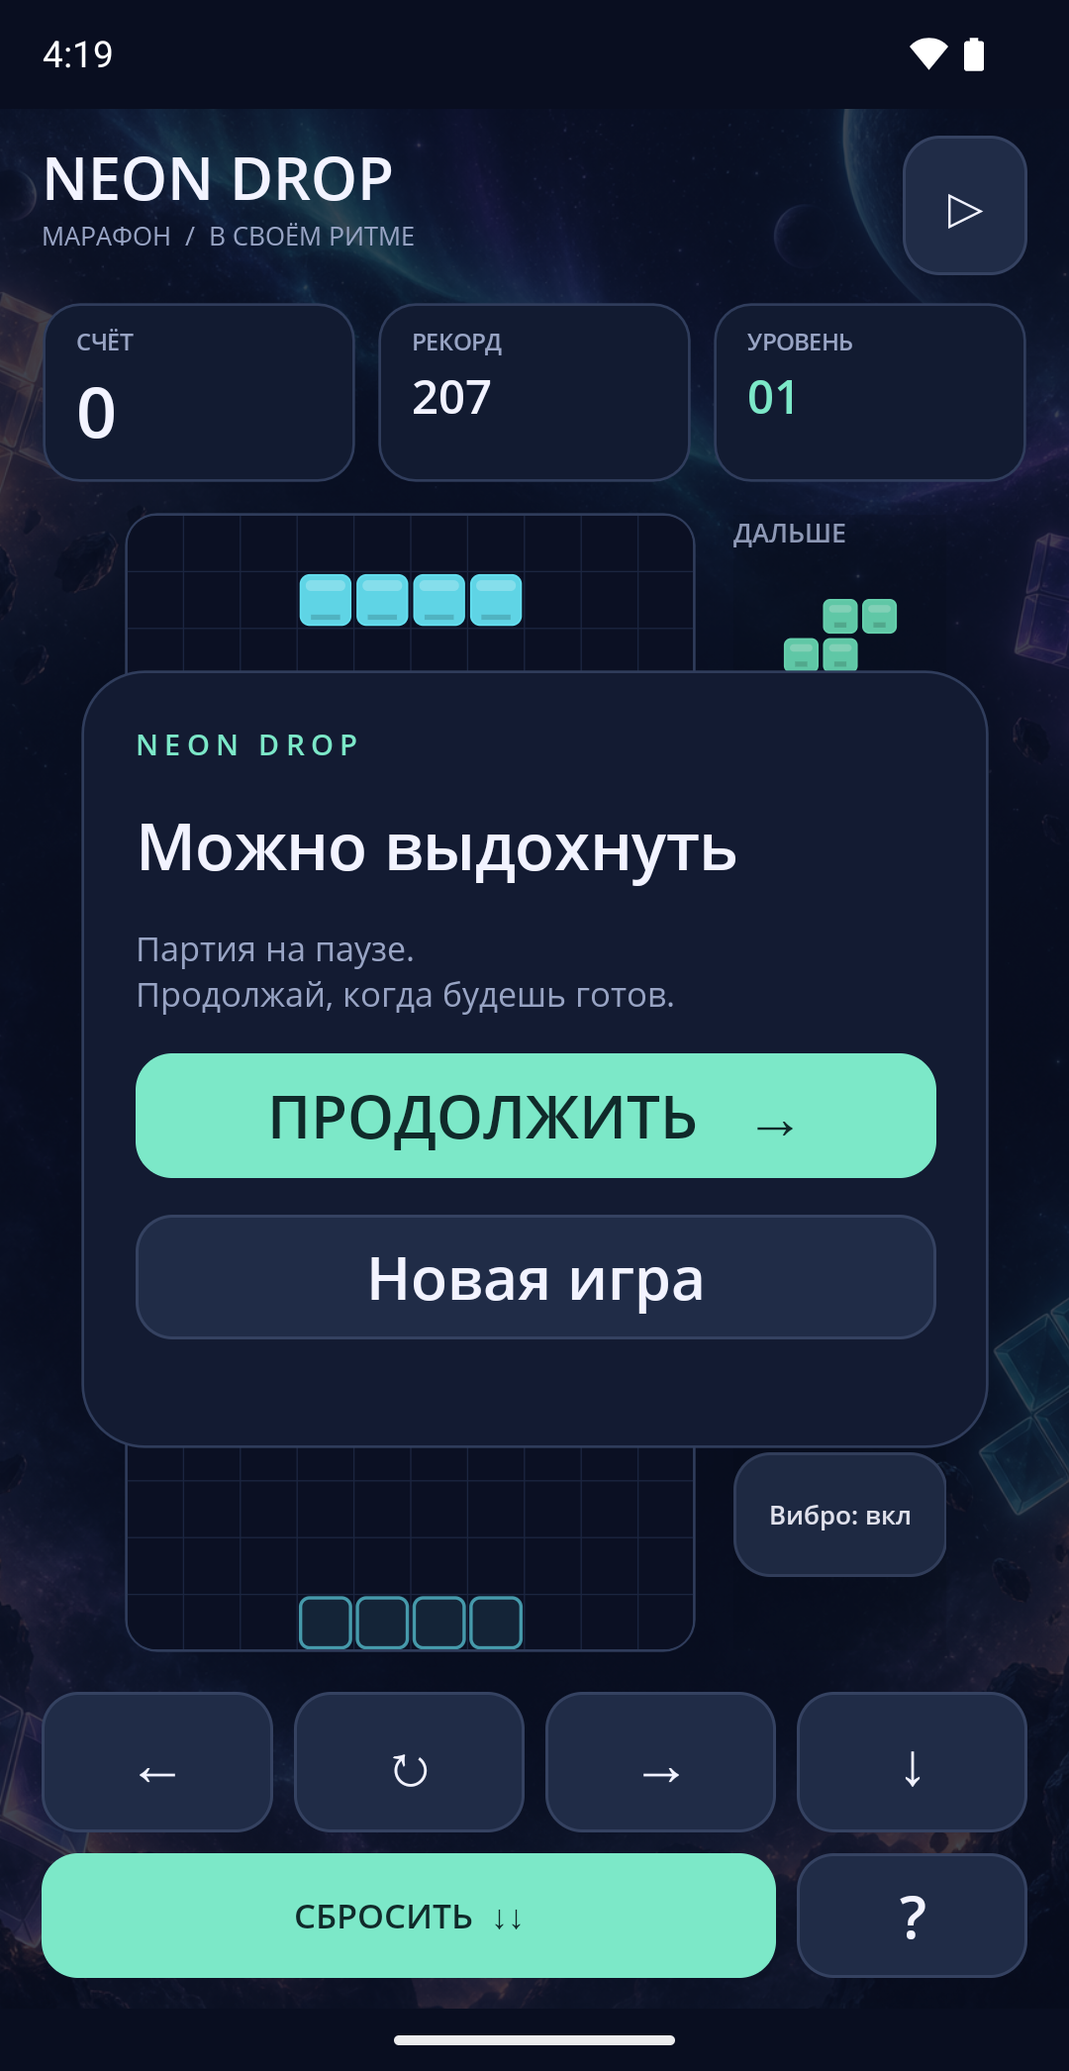
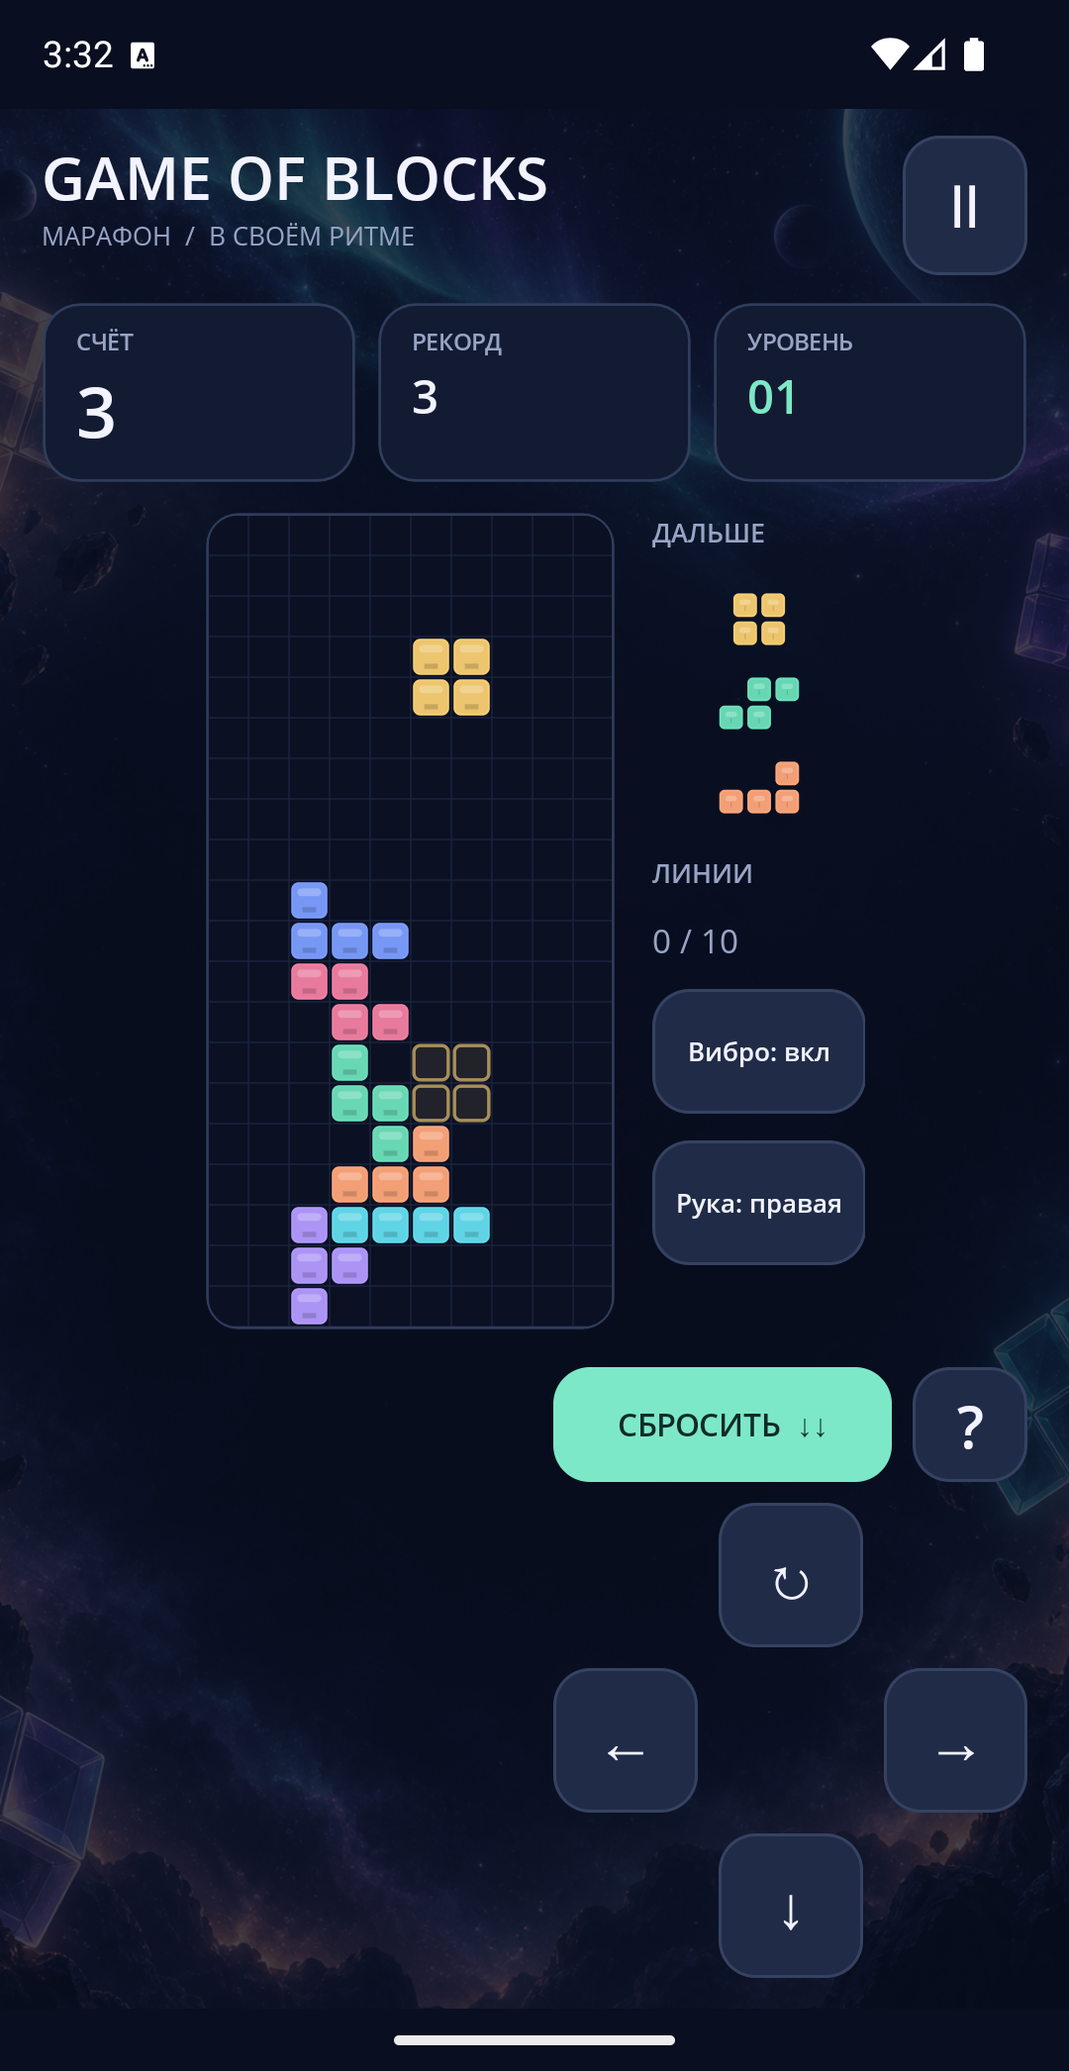
Rename the game to Game of Blocks
Update the in-app title, application title, README and artwork notes.
Keep the title on one line and shrink it in narrow side columns so it
does not overlap the stats on tablets in portrait. Retake every
screenshot, including foldable postures on a hand-made Pixel Fold AVD,
and document the iOS simulator and foldable checks.

Claude-Session: https://claude.ai/code/session_01MpEdapmnt87ou8UZCg6bh6

diff --git a/src/NeonTetris/MainPage.cs b/src/NeonTetris/MainPage.cs
@@ -33,6 +33,7 @@ public sealed class MainPage : ContentPage
     private readonly Label level = Text("01", 18, Mint, true);
     private readonly Label lines = Text("0 / 10", 13, Muted);
     private readonly Label status = Text("МАРАФОН  /  В СВОЁМ РИТМЕ", 10, Muted);
+    private readonly Label title = Text("GAME OF BLOCKS", 23, Ink, true);
     private readonly Button pause;
     private readonly Border overlay;
     private readonly Label overlayTitle = Text("Поймай свой ритм", 25, Ink, true);
@@ -82,9 +83,10 @@ public sealed class MainPage : ContentPage
         next = new GraphicsView { Drawable = new PreviewDrawable(game), HeightRequest = 160 };
         pause = Button("Ⅱ", PauseOrResume, "Пауза или продолжение");
         pause.WidthRequest = 48;
-        var title = new VerticalStackLayout { Spacing = 0, Children = { Text("NEON DROP", 23, Ink, true), status } };
+        title.LineBreakMode = LineBreakMode.NoWrap;
+        var titleBlock = new VerticalStackLayout { Spacing = 0, Children = { title, status } };
         header = new Grid { ColumnDefinitions = [new(GridLength.Star), new(GridLength.Auto)], ColumnSpacing = 8 };
-        header.Add(title);
+        header.Add(titleBlock);
         header.Add(pause, 1);
         stats = new Grid { ColumnDefinitions = [new(GridLength.Star), new(GridLength.Star), new(GridLength.Star)], ColumnSpacing = 8 };
         stats.Add(Stat("СЧЁТ", score));
@@ -114,7 +116,7 @@ public sealed class MainPage : ContentPage
         play = Button("ИГРАТЬ   →", Play, "Начать игру", true);
         restart = Button("Новая игра", () => { game.Start(); helpOpen = false; ArrangeScene(); }, "Начать новую партию");
         var overlayContent = new VerticalStackLayout { Spacing = 14, Padding = 20,
-            Children = { hero, Text("N E O N   D R O P", 11, Mint, true), overlayTitle, overlayText, play, restart } };
+            Children = { hero, Text("G A M E   O F   B L O C K S", 11, Mint, true), overlayTitle, overlayText, play, restart } };
         overlay = Card(new ScrollView { Content = overlayContent }, 24);
         overlay.BackgroundColor = Color.FromArgb("#131B32");
         overlay.ZIndex = 10;
@@ -347,6 +349,8 @@ public sealed class MainPage : ContentPage
             var key = Math.Clamp(Math.Min((h - 160) / 2.6, (Math.Min(leftWidth, rightWidth) - Gap) / 2), 46, 88);
             var leftHeight = key * 2 + Gap;
             var rightHeight = key * 1.5 + Gap + DropHeight(key);
+            // В узкой боковой колонке (планшет в портрете) заголовок не должен переноситься на две строки.
+            title.FontSize = leftWidth < 300 ? 16 : 23;
             Place(header, pad, 10, leftWidth, 54);
             Place(stats, pad, 70, leftWidth, 70);
             var sidebarHeight = Math.Max(1, h - 26 - rightHeight - 10);
@@ -359,6 +363,7 @@ public sealed class MainPage : ContentPage
         }
         else
         {
+            title.FontSize = 23;
             Place(header, pad, 10, w - pad * 2, 54);
             Place(stats, pad, 74, w - pad * 2, 70);
             var key = Math.Clamp(Math.Min(h * .076, (w - pad * 2 - 40) / 3.2), 46, 78);
@@ -387,7 +392,9 @@ public sealed class MainPage : ContentPage
         var width = Math.Max(1, pane.Width - 24);
         // В низкой широкой панели шапка и счёт занимают один ряд, иначе управление не поместится.
         var row = pane.Width > pane.Height * 1.2;
-        Place(header, x, pane.Y + 10, row ? width * .4 : width, 54);
+        var headerWidth = row ? width * .4 : width;
+        title.FontSize = headerWidth < 300 ? 16 : 23;
+        Place(header, x, pane.Y + 10, headerWidth, 54);
         Place(stats, row ? x + width * .42 : x, pane.Y + (row ? 8 : 74), row ? width * .58 : width, row ? 62 : 70);
         var top = pane.Y + (row ? 78 : 154);
         var rest = Math.Max(1, pane.Y + pane.Height - 12 - top);

diff --git a/docs/testing.md b/docs/testing.md
@@ -31,7 +31,7 @@
 
 В коротком горизонтальном окне вспомогательная панель «ДАЛЬШЕ» прокручивается; основные кнопки движения и сброса остаются на месте.
 
-Физические телефоны/планшеты, OEM-внешние экраны, iOS и Windows target не тестировались. Приложение собирается именно для Android. Эмулятор не подтверждает особенности прошивок всех моделей из обзора.
+Физические телефоны/планшеты и OEM-внешние экраны не тестировались; Windows target отсутствует. Эмулятор не подтверждает особенности прошивок всех моделей из обзора.
 
 ## Крестовина, 11.09.2026
 
@@ -50,4 +50,33 @@
 
 Симулятор iPhone 16 Pro (iOS): сборка `net10.0-ios` для `iossimulator-arm64` без предупреждений, стартовый экран и одноручная крестовина отрисованы. Симулятор iPad Pro 13-inch: широкая раскладка с полем по центру и кластерами в нижних углах. Тапы в симулятор не отправлялись — проверена только раскладка.
 
-Складные панели на этот раз не проверялись: под рукой был только AVD Pixel 8, foldable-раскладка подтверждена лишь кодом и прошлым прогоном 10.09.2026.
+### Складные панели на macOS
+
+Без Android Studio AVD Pixel Fold создан вручную: каталог `~/.android/avd/Fold_API35.avd/config.ini` скопирован с Pixel 8 и дополнен профилем складного экрана (`hw.lcd.width=2208`, `hw.lcd.height=1840`, `hw.sensor.hinge=yes`, `hw.sensor.hinge.areas=1104-0-0-1840`, `hw.sensor.hinge.type=1`, `hw.sensor.hinge.ranges=0-180`, `hw.sensor.posture_list=1, 2, 3`, `hw.sensor.hinge_angles_posture_definitions=0-30, 30-150, 150-180`, внешний экран `hw.displayRegion.0.1.*` 1080×2092 и `hw.sensor.hinge.fold_to_displayRegion.0.1_at_posture=1`, `PlayStore.enabled=false`). Эмулятор запускается как `emulator -avd Fold_API35 -no-snapshot`; `cmd device_state print-states` показывает `CLOSED=0`, `HALF_OPENED=1`, `OPENED=2`.
+
+Особенности прогона: поза меняется через `adb emu sensor set hinge-angle0 180|90|0`; `settings put system user_rotation` эмулятор перебивает автоповоротом, работает `adb shell cmd window user-rotation lock 1` (и `lock 0` для возврата); у складного AVD два дисплея, поэтому `screencap` нужен с `-d <id>` из `dumpsys SurfaceFlinger --display-id`.
+
+| Сценарий | Результат |
+| --- | --- |
+| Fold_API35, HALF_OPENED / book | «МАРАФОН / BOOK»: поле целиком слева от сгиба, справа статистика, «ДАЛЬШЕ», «СБРОСИТЬ», «?» и одноручная крестовина. Счёт менялся тапами. |
+| Fold_API35, HALF_OPENED / tabletop | «МАРАФОН / TABLETOP»: поле сверху, шапка и счёт в один ряд снизу, «ДАЛЬШЕ» рядом с крестовиной; ничего не пересекает шарнир. |
+| Fold_API35, CLOSED / внешний экран 1080×2092 | Одноручная раскладка телефона на внешнем экране, партия и активная фигура сохранены. |
+
+Скриншоты в `screenshots/fold-*.png` пересняты на этом AVD 11.09.2026.
+
+## iOS-симулятор
+
+Дата: 11.09.2026. Окружение: macOS (Apple Silicon), .NET SDK 10.0.401, workload `maui-ios`, Xcode 26.6, симуляторы iOS 18.6 и 26.
+
+`dotnet build -f net10.0-ios -c Debug -p:RuntimeIdentifier=iossimulator-arm64` и та же сборка в Release (с ILLink): **0 warnings, 0 errors**. Android-сборка после добавления iOS-таргета: 0 warnings, 0 errors; тесты движка: 147 passed.
+
+| Сценарий | Результат |
+| --- | --- |
+| iPhone 16 Pro, iOS 18.6, 1206×2622 | Запуск, стартовый экран, игровое поле 10×20 целиком, safe area под Dynamic Island и над индикатором Home соблюдена. |
+| iPhone 16e, iOS 26 | Компактная раскладка без обрезаний и наложений. |
+| iPad Pro 13", iOS 26, портрет | Широкая раскладка: поле по центру, кластеры крестовины в нижних углах. |
+| Release-бандл на iPhone 16 Pro | Запускается, стартовый экран отрисован, ошибок в системном логе нет. |
+
+Скриншоты: [iPhone](screenshots/ios-phone.png), [iPad](screenshots/ios-ipad.png).
+
+Не проверялись вживую: аппаратная клавиатура (команды `UIKeyCommand` компилируются, но нажатия в симулятор не доставлялись), альбомная ориентация на iPhone, реальные устройства, подпись и распространение.

diff --git a/README.md b/README.md
@@ -1,8 +1,8 @@
-# NEON DROP
+# GAME OF BLOCKS
 
-Тетрис на **C# / .NET 10 MAUI** с космическими иллюстрациями, светящимися фигурами и адаптивным интерфейсом для Android.
+Тетрис на **C# / .NET 10 MAUI** с космическими иллюстрациями, светящимися фигурами и адаптивным интерфейсом для Android и iOS.
 
-<img src="docs/screenshots/phone.png" alt="Neon Drop на Android" width="360" />
+<img src="docs/screenshots/phone.png" alt="Game of Blocks на Android" width="360" />
 
 ## Запуск на Windows
 
@@ -29,6 +29,27 @@ dotnet workload install maui-android
 dotnet test tests/NeonTetris.Core.Tests
 ```
 
+## Запуск на macOS (iOS-симулятор)
+
+Нужны .NET SDK **10.0.401**, workload `maui-ios` и Xcode с установленными симуляторами. Минимальная версия приложения — iOS 15; проверено на симуляторе iPhone 16 Pro с iOS 18.6.
+
+```bash
+dotnet workload install maui-ios
+dotnet build src/NeonTetris/NeonTetris.csproj -f net10.0-ios -c Debug -p:RuntimeIdentifier=iossimulator-arm64
+```
+
+Готовый бандл: `src/NeonTetris/bin/Debug/net10.0-ios/iossimulator-arm64/NeonTetris.app`. На Intel-Mac вместо `iossimulator-arm64` используйте `iossimulator-x64`.
+
+Установка и запуск на уже загруженном симуляторе (`xcrun simctl list devices booted` покажет UDID):
+
+```bash
+xcrun simctl boot "iPhone 16 Pro"
+xcrun simctl install booted src/NeonTetris/bin/Debug/net10.0-ios/iossimulator-arm64/NeonTetris.app
+xcrun simctl launch booted com.mbobka.neondrop
+```
+
+iOS-таргет добавляется в проект только на macOS: на других системах остаётся один `net10.0-android`, поэтому Android-сборка не требует Apple-инструментов.
+
 ## Игра
 
 - Поле 10×20, генератор 7-bag, вращения SRS с wall kicks, задержка фиксации 500 мс.
@@ -53,18 +74,22 @@ dotnet test tests/NeonTetris.Core.Tests
 
 Касание поля поворачивает фигуру; горизонтальный свайп сдвигает на клетку, свайп вниз делает мягкое падение.
 
+Аппаратная клавиатура работает на обеих платформах. На iOS команды приходят через `UIKeyCommand`, поэтому удержание клавиш движения там не повторяется автоматически — повтор есть только на кнопках и на Android.
+
 ## Планшеты и складные экраны
 
 Размеры вычисляются по текущему окну. В широком режиме поле стоит по центру, а панели и кластеры управления — по бокам. AndroidX WindowManager сообщает о разделяющих сгибах; поле целиком помещается в безопасную область, одноручная крестовина — в соседнюю. Учитываются несколько сгибов и шарниры нулевой толщины. При слишком маленьком окне игра предлагает увеличить доступное место и сохраняет партию на паузе.
 
 Поворот, resize, переход в фон и смена posture ставят игру на паузу. Системные панели и вырезы учитываются отдельно от шарниров.
 
+На iOS сгибов нет: список областей остаётся пустым, и работают обычные раскладки — узкая на iPhone и широкая на iPad и в альбомной ориентации.
+
 Обзор моделей по состоянию на **10.09.2026** и официальные источники: [foldables.md](docs/foldables.md). Результаты локальных испытаний: [testing.md](docs/testing.md). Работа на реальных foldable-устройствах и их внешних экранах зависит от OEM и отдельно не сертифицирована.
 
 ## Структура
 
 - `src/NeonTetris.Core` — независимый движок, снимки состояния и геометрия безопасных панелей.
-- `src/NeonTetris` — MAUI UI, GraphicsView, Android lifecycle и WindowManager.
+- `src/NeonTetris` — MAUI UI, GraphicsView, Android lifecycle с WindowManager и iOS-точка входа.
 - `tests/NeonTetris.Core.Tests` — тесты правил, вращений, таймингов, восстановления и сгибов.
 - `scripts` — воспроизводимый запуск и проверка в PowerShell.
 

diff --git a/docs/artwork.md b/docs/artwork.md
@@ -1,4 +1,4 @@
-# Графика Neon Drop
+# Графика Game of Blocks
 
 Две иллюстрации созданы встроенным **imagegen**, затем скопированы в ресурсы MAUI. Рисунки используются в самой игре, не только в документации. Игровые блоки рисуются C# / MAUI Graphics, чтобы сохранять чёткость при любом размере поля. Иконка и заставка — отдельные SVG.
 
